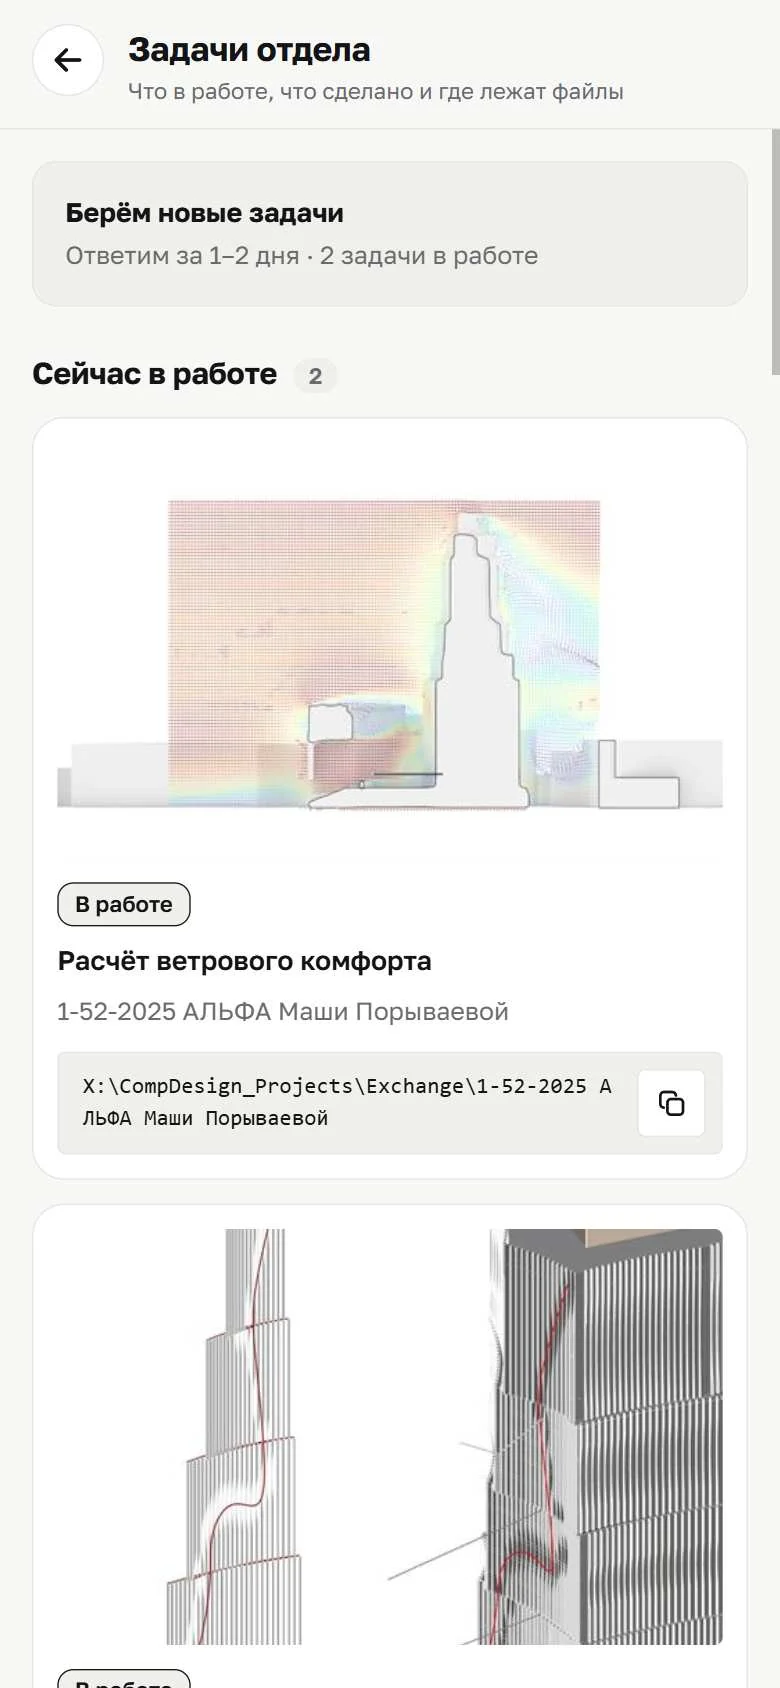
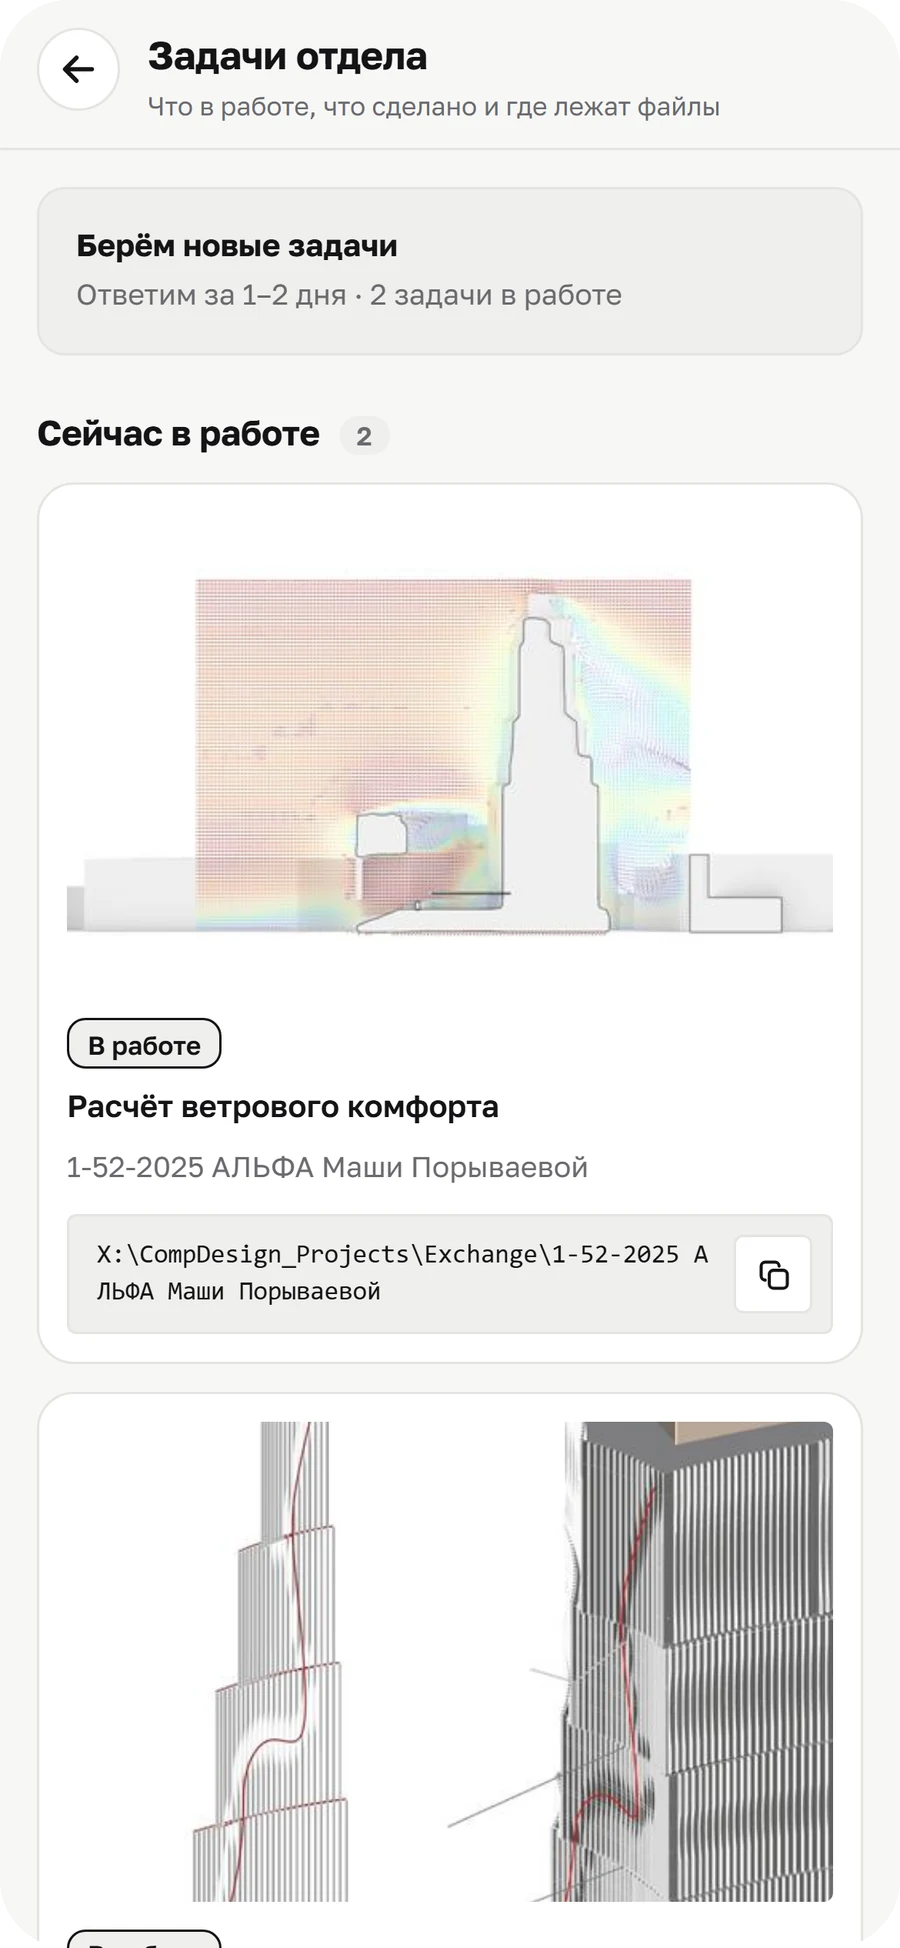
Пересняты экраны Mini App и увеличены в кейсе
Прежние снимки были сняты через отладчик браузера: в кадр попадала
полоса прокрутки, а два из четырёх пришли с дублированием картинки,
и это же дублирование уехало в обложку.

- Съёмка переведена на Playwright из репозитория бота: свой запуск
  браузера, полосы прокрутки погашены стилем, тройная плотность.
- Каждый кадр проверен на дублирование сравнением половин, прежде
  чем попасть в сборку.
- Скругления запечены в сам файл, поэтому рамка от сайта не нужна:
  вместо неё мягкая тень по контуру.
- Экраны показываются по два в ряд, 497px вместо 220: интерфейс
  читается, а не угадывается.

diff --git a/src/features/cases/data/comp-design-bot.ts b/src/features/cases/data/comp-design-bot.ts
@@ -50,6 +50,8 @@ export const compDesignBot: CaseStudy[] = [
         body: "Начал с простого: восемь карточек с примерами работ отдела, свайп как в тиндере, тап переворачивает карточку и показывает реальный результат из проектов. Человек не вспоминает термин, а узнаёт свою задачу на картинке. Выбрал карточку, бот в чате задал вопросы, заявка ушла в ветку отдела. Это работало, но заявка всё ещё жила в переписке.",
         visual: {
           kind: "screens",
+          size: "lg",
+          bare: true,
           items: [
             {
               src: `${DIR}/v1-deck.webp`,
@@ -256,6 +258,8 @@ export const compDesignBot: CaseStudy[] = [
         body: "Разделы уехали в углы, нижней панели нет. Колода занимает центр, под ней список готового по теме, снизу шторка с заявкой в трёх положениях. Строка «Карточка» в шапке шторки показывает, от чего человек отталкивается, и меняется свайпом колоды. Открыл конкретное решение — в шапке появилась вторая строка, и отдел получит заявку со ссылкой на источник.",
         visual: {
           kind: "screens",
+          size: "lg",
+          bare: true,
           items: [
             {
               src: `${DIR}/app-main.webp`,

diff --git a/src/features/cases/components/case-visual.tsx b/src/features/cases/components/case-visual.tsx
@@ -154,21 +154,34 @@ function Band({ visual }: { visual: Extract<Visual, { kind: "band" }> }) {
 
 /* ---------------- ряд мобильных экранов ---------------- */
 
+const SCREEN_ROWS = {
+  sm: styles.scRowSm,
+  lg: styles.scRowLg,
+  wide: styles.scRowWide,
+} as const;
+
 function Screens({ visual }: { visual: Extract<Visual, { kind: "screens" }> }) {
   const wide = visual.size === "wide";
-  const cls = wide ? styles.scRowWide : visual.size === "sm" ? styles.scRowSm : styles.scRow;
+  const cls = (visual.size && SCREEN_ROWS[visual.size as keyof typeof SCREEN_ROWS]) ?? styles.scRow;
+  const frame = wide ? styles.screenFrame : visual.bare ? styles.phoneBare : styles.phone;
 
   return (
     <ul className={cls}>
       {visual.items.map((item) => (
         <li key={item.src} className={styles.scItem}>
-          <div className={wide ? styles.screenFrame : styles.phone}>
+          <div className={frame}>
             <Image
               src={asset(item.src)}
               alt={item.alt}
-              width={wide ? 1440 : 780}
-              height={wide ? 1024 : 1688}
-              sizes={wide ? "(max-width: 900px) 100vw, 1100px" : "(max-width: 700px) 45vw, 220px"}
+              width={wide ? 1440 : 900}
+              height={wide ? 1024 : 1968}
+              sizes={
+                wide
+                  ? "(max-width: 900px) 100vw, 1100px"
+                  : visual.size === "lg"
+                    ? "(max-width: 700px) 90vw, 500px"
+                    : "(max-width: 700px) 45vw, 240px"
+              }
               className={styles.phoneImage}
             />
           </div>

diff --git a/src/features/cases/types.ts b/src/features/cases/types.ts
@@ -95,8 +95,10 @@ export type CaseVisual = VisualBase &
         /** Ряд мобильных экранов: показываем сценарий, а не один кадр. */
         kind: "screens";
         items: { src: string; alt: string; label: string; note?: string }[];
-        /** sm для плотных рядов, md для мобильных, wide для десктопных экранов. */
-        size?: "sm" | "md" | "wide";
+        /** sm плотный ряд, md мобильные, lg два крупных, wide десктопные. */
+        size?: "sm" | "md" | "lg" | "wide";
+        /** Снимок уже со скруглёнными углами: рамку от сайта не рисуем. */
+        bare?: boolean;
       }
     | {
         /** Было и стало по одному экрану. */

diff --git a/src/features/cases/components/case-visual.module.css b/src/features/cases/components/case-visual.module.css
@@ -1222,3 +1222,36 @@
   height: auto;
   display: block;
 }
+
+/* Два крупных экрана в ряд: интерфейс видно, а не угадываешь. */
+.scRowLg {
+  display: grid;
+  grid-template-columns: 1fr;
+  gap: var(--s-6);
+  list-style: none;
+  padding: 0;
+  margin: 0;
+}
+
+@media (min-width: 700px) {
+  .scRowLg {
+    grid-template-columns: repeat(2, minmax(0, 1fr));
+  }
+}
+
+/* Снимок со своими скруглениями: вместо рамки мягкая тень по контуру. */
+.phoneBare {
+  line-height: 0;
+  filter: drop-shadow(0 1px 1px rgba(27, 26, 24, 0.06))
+    drop-shadow(0 24px 40px rgba(27, 26, 24, 0.14));
+}
+
+.scRowLg .scLabel {
+  margin-top: var(--s-4);
+  font-size: var(--fs-sm);
+}
+
+.scRowLg .scNote {
+  font-size: var(--fs-sm);
+  max-width: 46ch;
+}
